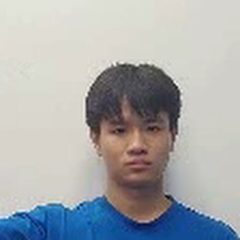
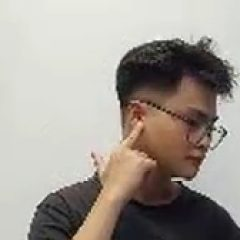
Make the recording guide cover all 30 signs, not just Chào
- Guide photos now come from different signs and signers (rest pose: Họ,
  too close: Nghe, signing: Nhìn, Thức dậy, Cứu, Cảm ơn) instead of three
  frames of one Chào clip
- Setup screen gets a "Xem trước 30 ký hiệu" grid: tap any sign to watch
  its mirrored reference video, with the QIPEDC link when there is one
- Rest pose wording is "hai tay chụm trước bụng": checked against all 30
  reference clips, it is the common start/end pose across signs and signers
- make_references.py also writes the 160 px posters used by the grid

diff --git a/webapp/index.html b/webapp/index.html
@@ -20,7 +20,7 @@
       <h2>Trước khi quay: 3 quy tắc</h2>
       <div class="rules">
         <figure class="rule good">
-          <img src="guide/rest.jpg" alt="Người đứng đúng khoảng cách, thấy từ đầu đến thắt lưng, hai tay đặt ở bụng" width="240" height="240">
+          <img src="guide/rest.jpg" alt="Người đứng đúng khoảng cách, thấy từ đầu đến thắt lưng, hai tay chụm trước bụng" width="240" height="240">
           <figcaption><b>1. Đủ xa: thấy từ đầu đến thắt lưng</b>Cả hai tay luôn nằm trong khung. Laptop: đẩy máy ra xa hoặc lùi ghế, khoảng 1 m. Điện thoại: dựng cố định, đứng hoặc ngồi cách 1–1,5 m.</figcaption>
         </figure>
         <figure class="rule bad">
@@ -28,20 +28,30 @@
           <figcaption><b>✗ Quá gần</b>Chỉ thấy đầu và vai, mất tay và thân. App sẽ báo “Lùi ra xa” và không cho quay.</figcaption>
         </figure>
         <figure class="rule good">
-          <img src="guide/sign.jpg" alt="Đang làm ký hiệu Chào giống video mẫu" width="240" height="240">
-          <figcaption><b>2. Làm đủ động tác như video mẫu</b>Video mẫu hiện ở góc khung hình, đã lật như gương: làm giống hệt hình, cùng phía tay.</figcaption>
+          <img src="guide/sign.jpg" alt="Bốn ký hiệu khác nhau đang được làm: Nhìn, Thức dậy, Cứu, Cảm ơn" width="240" height="240">
+          <figcaption><b>2. Làm đủ động tác như video mẫu</b>Mỗi ký hiệu có video mẫu riêng (xem trước ở dưới). Khi quay, video hiện ở góc khung hình, đã lật như gương: làm giống hệt hình, cùng phía tay.</figcaption>
         </figure>
       </div>
-      <p class="rule-3"><b>3. Bắt đầu và kết thúc ở tư thế nghỉ:</b> hai tay đặt nhẹ ở bụng như ảnh đầu tiên. Đếm ngược thì để tay ở bụng, khung chuyển đỏ mới làm ký hiệu, làm xong đưa tay về bụng.</p>
+      <p class="rule-3"><b>3. Bắt đầu và kết thúc ở tư thế nghỉ:</b> hai tay chụm nhẹ trước bụng như ảnh đầu tiên. Đây là tư thế chung của hầu hết video mẫu, ở mọi ký hiệu. Đếm ngược thì giữ tư thế nghỉ, khung chuyển đỏ mới làm ký hiệu, làm xong đưa tay về tư thế nghỉ.</p>
 
       <h3>Mỗi lượt diễn ra thế nào</h3>
       <ol class="timeline">
-        <li><span class="dot amber"></span><b>Đếm ngược 2 giây</b><small>Hai tay ở bụng, nhìn camera</small></li>
-        <li><span class="dot red"></span><b>Khung đỏ ~2,5 giây</b><small>Làm ký hiệu, xong về tư thế nghỉ</small></li>
+        <li><span class="dot amber"></span><b>Đếm ngược 2 giây</b><small>Hai tay chụm trước bụng, nhìn camera</small></li>
+        <li><span class="dot red"></span><b>Khung đỏ ~2,5 giây</b><small>Làm ký hiệu, xong đưa tay về trước bụng</small></li>
         <li><span class="dot green"></span><b>Tự lưu</b><small>Tự quay lượt tiếp đến khi đủ, rồi sang ký hiệu sau</small></li>
       </ol>
 
       <p class="device">📷 Camera laptop hoặc camera trước điện thoại · mở bằng Chrome / Safari (không mở trong Zalo, Messenger) · đủ sáng, nền gọn, chỉ một người trong khung.</p>
+    </div>
+
+    <div class="card gallery">
+      <h2>Xem trước 30 ký hiệu <span class="muted">· bấm để xem video mẫu</span></h2>
+      <figure id="preview" class="preview" hidden>
+        <video id="preview-video" muted loop playsinline autoplay></video>
+        <figcaption><b id="preview-name"></b><span id="preview-links"></span></figcaption>
+      </figure>
+      <div id="gallery" class="thumbs"></div>
+      <p class="credit" id="gallery-credit"></p>
     </div>
 
     <div class="card form">
@@ -92,8 +102,8 @@
       </div>
       <ol class="steps">
         <li>Xem video mẫu</li>
-        <li>Hai tay ở bụng, bấm <b>Bắt đầu quay</b></li>
-        <li>Khung đỏ: làm đủ động tác, xong về tư thế nghỉ</li>
+        <li>Hai tay chụm trước bụng, bấm <b>Bắt đầu quay</b></li>
+        <li>Khung đỏ: làm đủ động tác, xong đưa tay về trước bụng</li>
       </ol>
       <div id="ref-links" class="ref-links"></div>
       <div id="upload" class="upload"></div>

diff --git a/webapp/app.js b/webapp/app.js
@@ -327,7 +327,7 @@ async function finishTake(now) {
     await Queue.add({ name, meta, frames });
     S.saved.push(name);
     S.counts[l.id] = mine(l) + 1;
-    say(`Đã lưu lượt ${mine(l)}/${S.quota} ✓ Đưa tay về bụng`, "ok");
+    say(`Đã lưu lượt ${mine(l)}/${S.quota} ✓ Đưa tay về trước bụng`, "ok");
     Queue.pump();
   }
   if (S.running && mine(l) < S.quota) Object.assign(S, { state: "countdown", tState: performance.now() });
@@ -400,8 +400,8 @@ function render(now) {
   $("ref-toggle").hidden = !hasRef || S.state === "recording";
   vp.classList.toggle("recording", S.state === "recording");
   vp.classList.toggle("countdown", S.state === "countdown");
-  const [main, sub] = S.state === "countdown" ? [Math.ceil(CONFIG.countdown - (now - S.tState) / 1000), "Hai tay đặt ở bụng"]
-    : S.state === "recording" ? ["● Làm ký hiệu", "xong thì đưa tay về bụng"]
+  const [main, sub] = S.state === "countdown" ? [Math.ceil(CONFIG.countdown - (now - S.tState) / 1000), "Hai tay chụm trước bụng"]
+    : S.state === "recording" ? ["● Làm ký hiệu", "xong thì đưa tay về trước bụng"]
     : !S.frame.ok ? [S.frame.big, S.frame.hint] : ["", ""];
   $("big-main").textContent = main;
   $("big-sub").textContent = sub;
@@ -527,6 +527,30 @@ document.addEventListener("visibilitychange", () => {
   }
 });
 
+// Màn hình đầu: lưới 30 ký hiệu, bấm để xem video mẫu (lật như gương, giống lúc quay) và link QIPEDC nếu có.
+function renderGallery() {
+  const grid = $("gallery");
+  grid.replaceChildren(...S.labels.filter((l) => S.refs.signs[l.slug]).map((l) => {
+    const b = document.createElement("button");
+    b.className = "thumb";
+    b.innerHTML = `<img src="ref/${l.slug}.jpg" alt="" loading="lazy" width="160" height="160"><span>${pad(l.id)}. ${l.text}</span>`;
+    b.onclick = () => {
+      const r = S.refs.signs[l.slug];
+      $("preview").hidden = false;
+      $("preview-video").src = r.video;
+      $("preview-video").play().catch(() => {});
+      $("preview-name").textContent = `${pad(l.id)}. ${l.text}`;
+      $("preview-links").replaceChildren(...r.links.flatMap((k, i) => {
+        const a = Object.assign(document.createElement("a"), { href: k.url, target: "_blank", rel: "noopener", textContent: k.label });
+        return i ? [" · ", a] : [" · Tham khảo: ", a];
+      }));
+      grid.querySelectorAll(".thumb").forEach((t) => t.classList.toggle("on", t === b));
+      $("preview").scrollIntoView({ block: "nearest", behavior: "smooth" });
+    };
+    return b;
+  }));
+}
+
 async function main() {
   try { S.labels = (await (await fetch("labels.json")).json()).sort((a, b) => a.id - b.id); }
   catch (e) { $("setup-error").textContent = `Không tải được labels.json: ${e.message}`; $("setup-error").hidden = false; return; }
@@ -534,6 +558,8 @@ async function main() {
   try {
     S.refs = await (await fetch("references.json")).json();
     $("credit").innerHTML = `Video mẫu: <a href="${S.refs.source_url}" target="_blank" rel="noopener">${S.refs.source}</a>`;
+    $("gallery-credit").innerHTML = $("credit").innerHTML;
+    renderGallery();
   } catch { S.refs = null; }   // thiếu video mẫu vẫn quay được
   try { S.showRef = localStorage.getItem("vsign-hide-ref") !== "1"; } catch {}
   $("ref-toggle").onclick = () => {

diff --git a/webapp/style.css b/webapp/style.css
@@ -109,3 +109,17 @@ label.radio { display: flex !important; gap: 8px; align-items: flex-start; }
 .ref-links { text-align: center; font-size: 13px; color: var(--muted); }
 .ref-links a, .credit a { color: var(--accent); }
 .credit { font-size: 12px; color: var(--muted); margin: 8px 0 0; }
+
+/* xem trước 30 ký hiệu */
+.muted { color: var(--muted); font-weight: 400; font-size: 13px; }
+.thumbs { display: grid; grid-template-columns: repeat(auto-fill, minmax(96px, 1fr)); gap: 8px; }
+.thumb { padding: 0; border-radius: 8px; overflow: hidden; display: grid; text-align: left; background: var(--bg); }
+.thumb img { width: 100%; height: auto; aspect-ratio: 1; object-fit: cover; display: block; transform: scaleX(-1); }
+.thumb span { padding: 4px 6px; font-size: 12px; line-height: 1.3; }
+.thumb.on { border-color: var(--accent); box-shadow: 0 0 0 2px var(--accent); }
+.preview { margin: 0 0 12px; display: grid; grid-template-columns: minmax(0, 260px) 1fr; gap: 12px; align-items: center; }
+.preview video { width: 100%; aspect-ratio: 1; object-fit: cover; border-radius: 10px; transform: scaleX(-1); background: #000; }
+.preview figcaption { font-size: 14px; color: var(--muted); line-height: 1.5; }
+.preview figcaption b { display: block; font-size: 20px; color: var(--text); }
+.preview figcaption a { color: var(--accent); }
+@media (max-width: 640px) { .preview { grid-template-columns: 1fr; justify-items: center; text-align: center; } .preview video { max-width: 240px; } }

diff --git a/webapp/make_references.py b/webapp/make_references.py
@@ -8,7 +8,7 @@ Mã hóa lại sang H.264 (trình duyệt và iPhone phát được), phóng lê
 
 Cần: dataset.zip, manifest.csv của prepare_visl.py, và imageio-ffmpeg (pip install imageio-ffmpeg).
     python webapp/make_references.py
-Kết quả: webapp/ref/<slug>.mp4 và webapp/references.json
+Kết quả: webapp/ref/<slug>.mp4, webapp/ref/<slug>.jpg (ảnh nhỏ cho phần xem trước) và webapp/references.json
 """
 from __future__ import annotations
 
@@ -58,6 +58,12 @@ def encode(src: Path, dst: Path) -> None:
                     "-crf", "26", "-pix_fmt", "yuv420p", "-movflags", "+faststart", str(dst)], check=True)
 
 
+def poster(video: Path, dst: Path) -> None:
+    """Ảnh nhỏ 160×160 (khung ở 40% thời lượng, thường đang giữa động tác) cho lưới xem trước ở màn hình đầu."""
+    subprocess.run([imageio_ffmpeg.get_ffmpeg_exe(), "-y", "-loglevel", "error", "-i", str(video),
+                    "-vf", "select=eq(n\\,12),scale=160:160", "-frames:v", "1", "-q:v", "6", str(dst)], check=True)
+
+
 def main() -> int:
     labels = sorted(json.loads((ROOT / "labels.json").read_text(encoding="utf-8")), key=lambda l: l["id"])
     with VISL.open(newline="", encoding="utf-8-sig") as f:
@@ -75,6 +81,7 @@ def main() -> int:
             src = Path(tmp) / video
             src.write_bytes(z.read(paths[video]))
             encode(src, OUT / f"{l['slug']}.mp4")
+            poster(OUT / f"{l['slug']}.mp4", OUT / f"{l['slug']}.jpg")
             refs[l["slug"]] = {
                 "video": f"ref/{l['slug']}.mp4", "visl_file": paths[video], "hand_ratio": float(r["hand_ratio"]),
                 "links": [{"label": f"QIPEDC: {name}", "url": QIPEDC_VIDEO.format(i)} for i, name in QIPEDC.get(l["slug"], [])],

diff --git a/webapp/README.md b/webapp/README.md
@@ -63,8 +63,8 @@ App tự hướng dẫn ngay trên màn hình (3 quy tắc có ảnh, video mẫ
 
 **3 quy tắc**
 1. **Đủ xa:** thấy từ đầu đến thắt lưng, cả hai tay luôn trong khung. Laptop: đẩy máy ra xa hoặc lùi ghế, khoảng 1 m. Điện thoại: dựng cố định, camera trước, cách 1–1,5 m. App báo **"Khoảng cách: tốt"** mới cho quay; quá gần sẽ báo **"Lùi ra xa"**.
-2. **Làm đủ động tác như video mẫu** ở góc khung hình. Video đã lật như gương: làm giống hệt hình, cùng phía tay. Bấm vào video để phóng to.
-3. **Bắt đầu và kết thúc ở tư thế nghỉ:** hai tay đặt nhẹ ở bụng. Đếm ngược thì để tay ở bụng, khung chuyển đỏ mới làm ký hiệu, làm xong đưa tay về bụng.
+2. **Làm đủ động tác như video mẫu.** Mỗi ký hiệu có video mẫu riêng: xem trước cả 30 ở màn hình đầu, và khi quay video hiện ở góc khung hình. Video đã lật như gương: làm giống hệt hình, cùng phía tay. Bấm vào video để phóng to.
+3. **Bắt đầu và kết thúc ở tư thế nghỉ:** hai tay chụm nhẹ trước bụng, tư thế chung của hầu hết video mẫu ở mọi ký hiệu. Đếm ngược thì giữ tư thế nghỉ, khung chuyển đỏ mới làm ký hiệu, làm xong đưa tay về trước bụng.
 
 **Cách quay**
 - Mở link bằng **Chrome / Edge / Safari** (laptop) hoặc **Chrome (Android) / Safari (iPhone)**. Nhận link qua Zalo/Messenger thì bấm ⋯ → **Mở bằng trình duyệt**.
